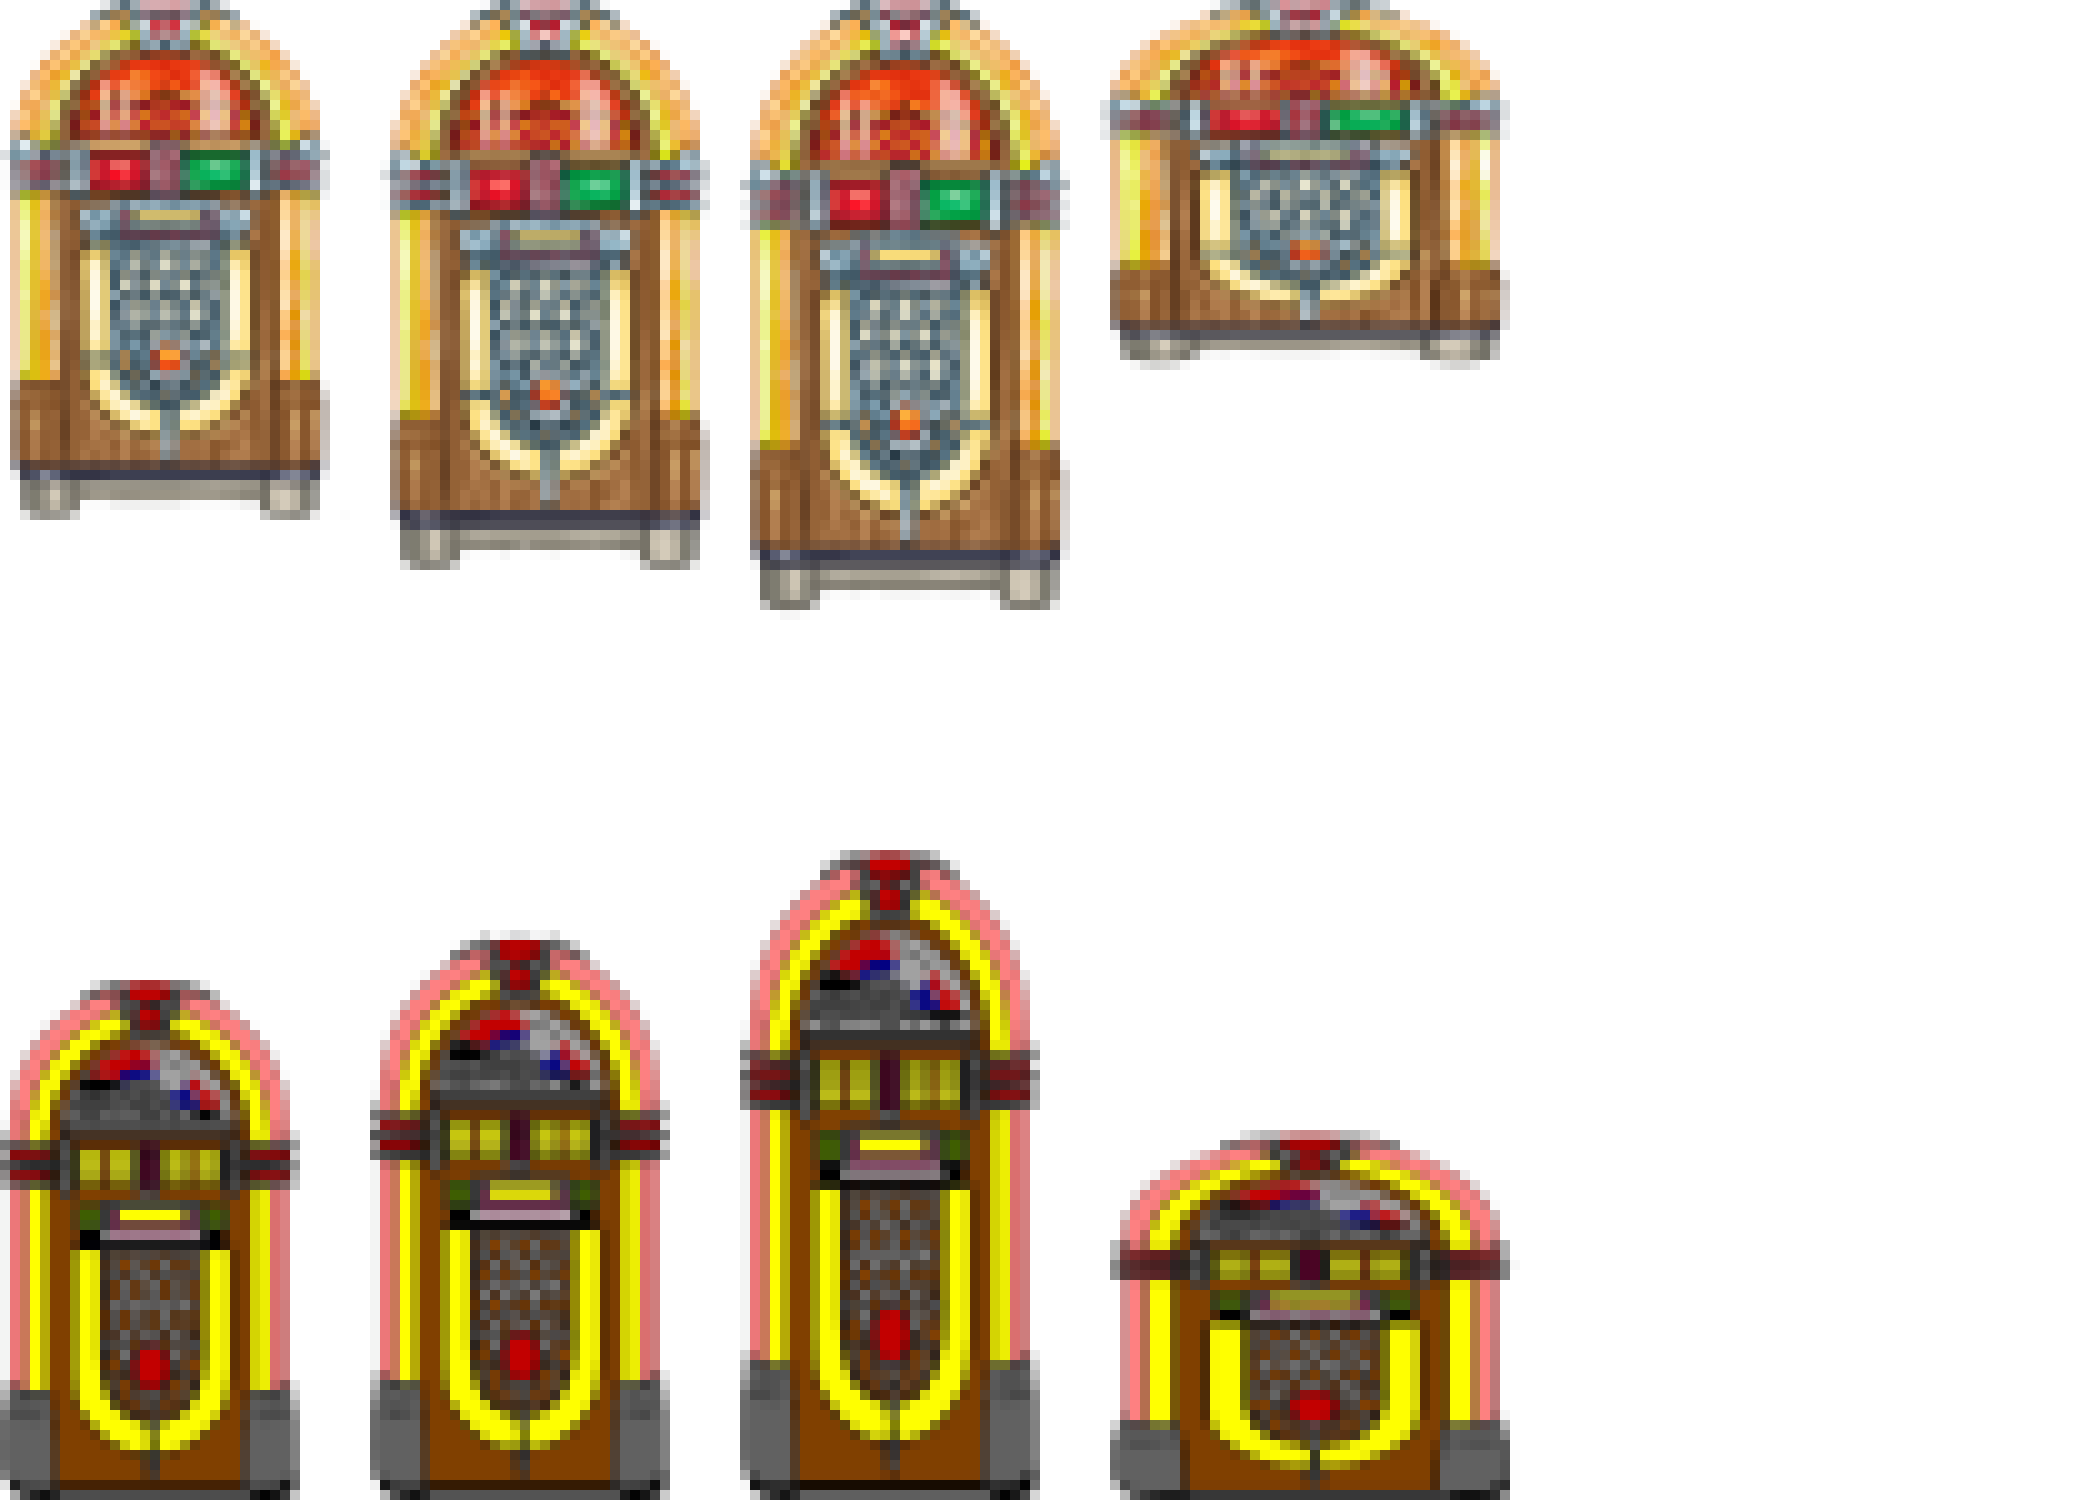
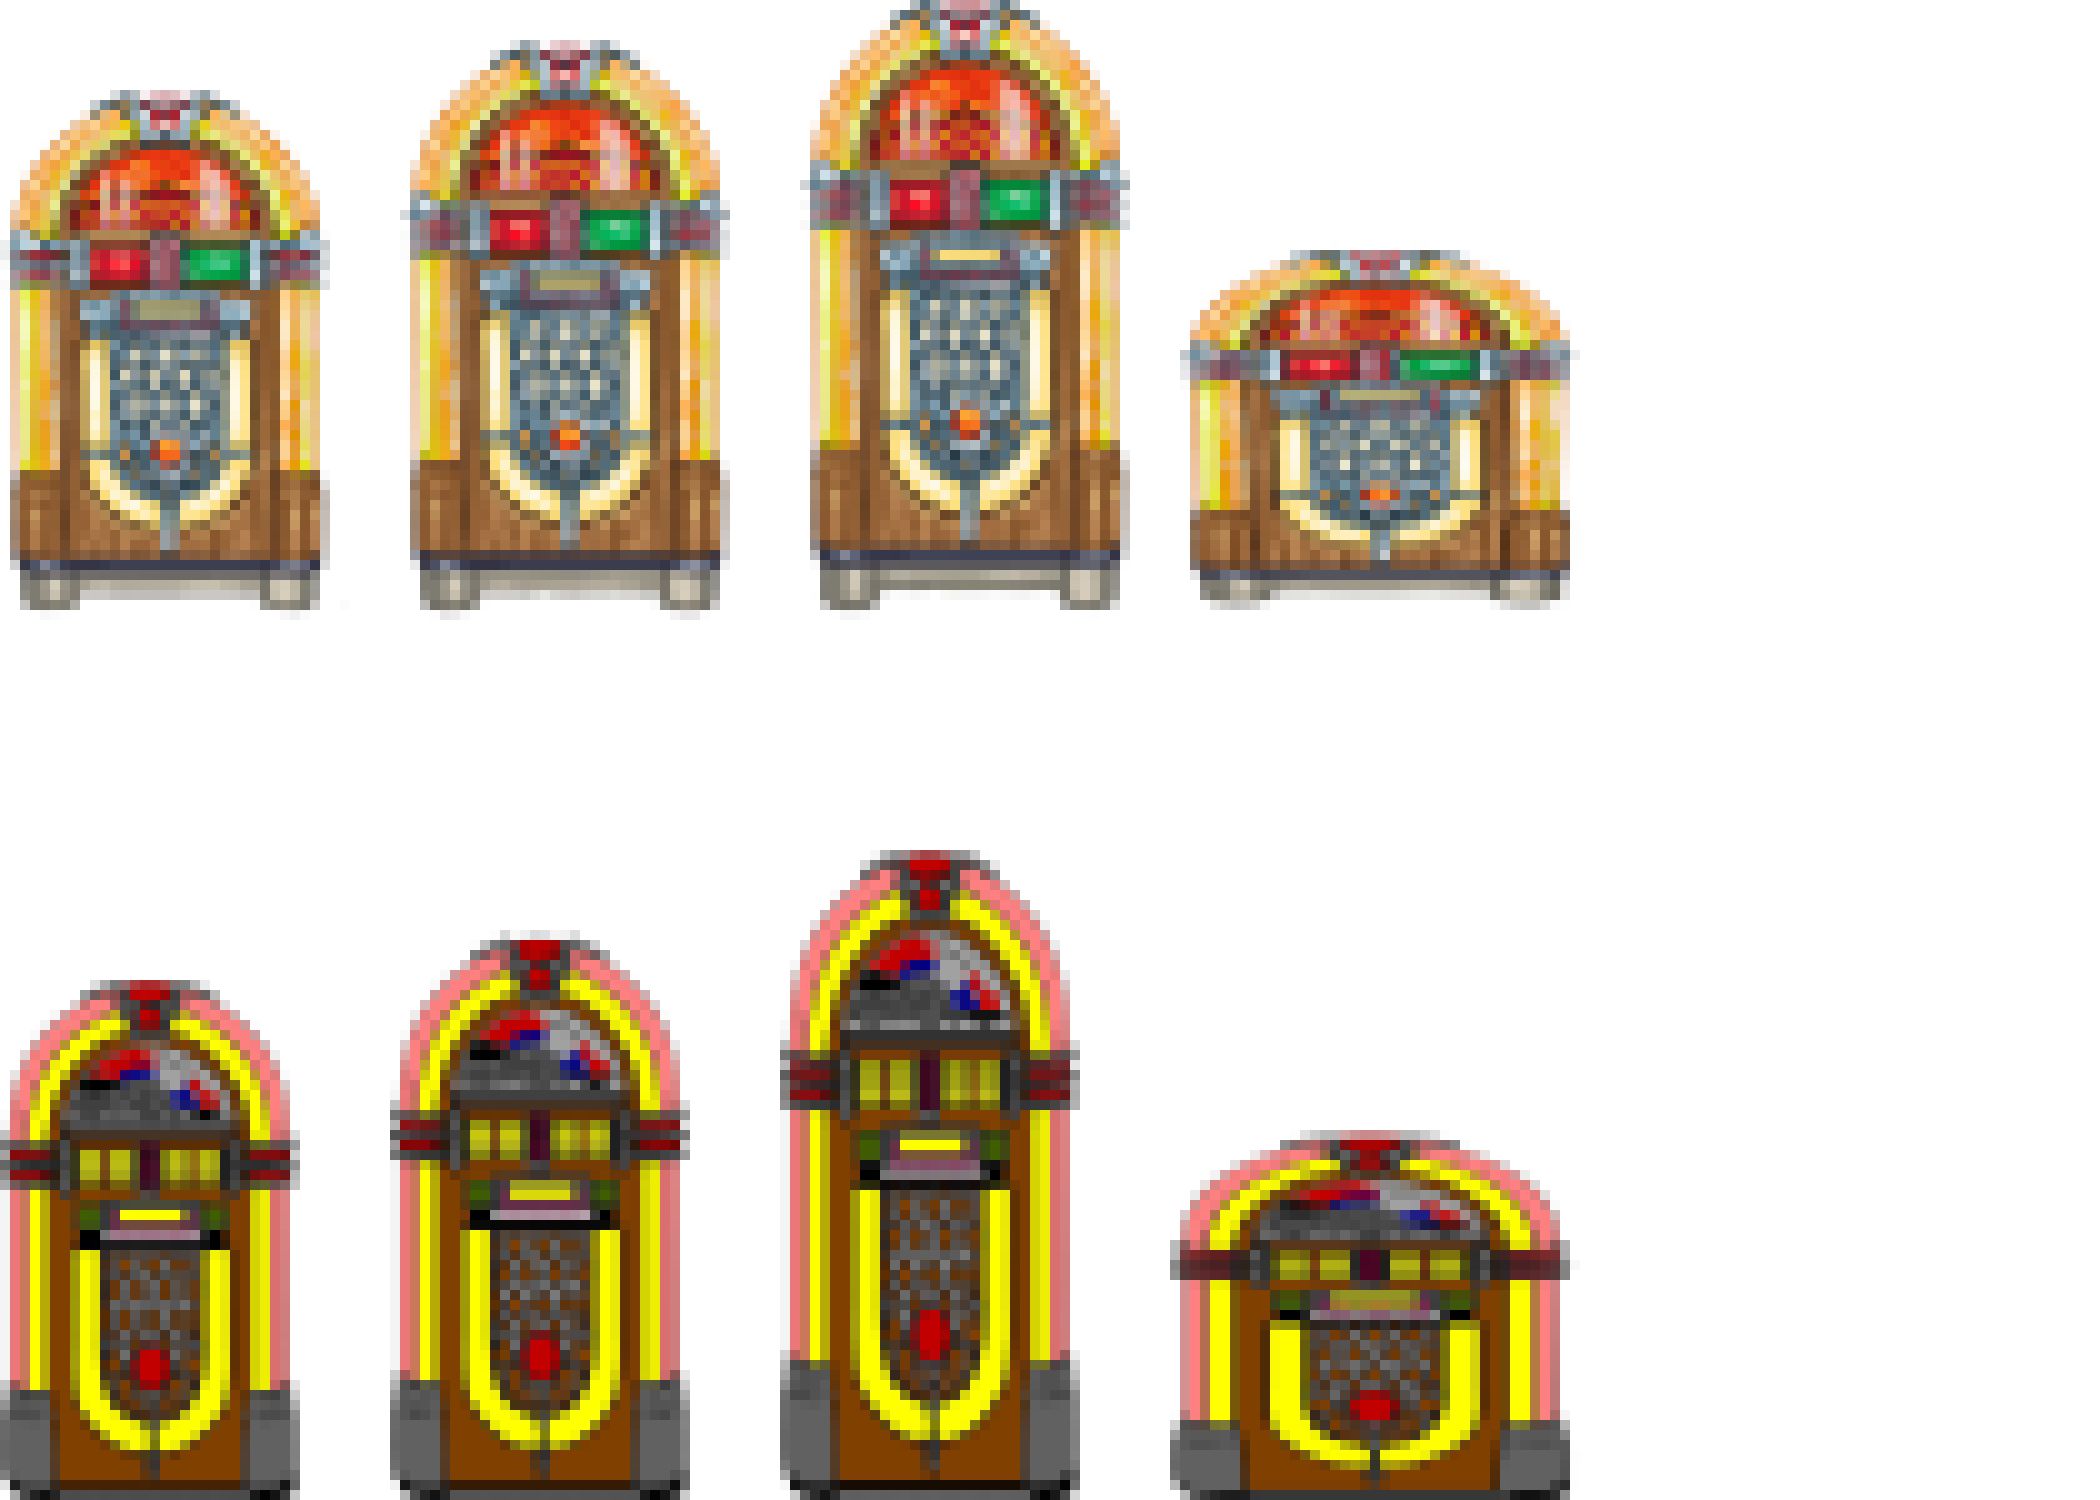
animated jukebox bounce

diff --git a/Puzzle/src/Jukebox.java b/Puzzle/src/Jukebox.java
@@ -5,8 +5,7 @@ import javafx.scene.paint.Color;
 public class Jukebox extends Element {
 	
 	private final static Image JUKEBOX = new Image(PuzzleUtil.FILE_PATH_RES+"jukeboxes.png", false);
-	private int playerWalkCycle = 0, playerDir = 0;
-	//test upload
+	private int jukeboxBounceCycle = 1, jukeboxDir = 0, bounceFrames = 0;
 	
 	public Jukebox() {
 		this(635, 450, PuzzleUtil.JUKEBOX_WIDTH, PuzzleUtil.JUKEBOX_HEIGHT);
@@ -21,10 +20,23 @@ public class Jukebox extends Element {
 		gc.fillRect(x, y, w, h);
 
 		//600 vertical, 400 horizontal
-		int sx = playerWalkCycle*400;
-		int sy = playerDir*600;
+		int sx = jukeboxBounceCycle*400;
+		int sy = jukeboxDir*600;
 		
 		gc.drawImage(JUKEBOX, sx, sy, 350, 600, x, y, w, h);
+	}
+	@Override
+	//every frame, do this
+	public void update(long millis) {
+		advanceBounceCycle(millis);
+	}
+	
+	private void advanceBounceCycle(long millis) {
+		bounceFrames += 1;
+		if (bounceFrames > 20) {
+			bounceFrames = 0;
+			jukeboxBounceCycle = (jukeboxBounceCycle == 3 ? 0 : jukeboxBounceCycle + 1);
+		}
 	}
 }
 

diff --git a/Puzzle/src/Puzzle.java b/Puzzle/src/Puzzle.java
@@ -70,6 +70,8 @@ public class Puzzle extends Application {
 	          case "w":
 	        	  levelElements.add(new Wall(v[0], v[1], v[2], v[3]));
 	        	  break;
+	          case "j":
+	        	  levelElements.add(new Jukebox(v[0], v[1], v[2], v[3]));
 	          }
 	        }
 	        scan.close();
@@ -107,9 +109,6 @@ public class Puzzle extends Application {
 			
 			//render the player
 			zack.draw(gc);
-			
-			//render jukebox
-			jb.draw(gc);
 		}
 	}	 
 	

diff --git a/Puzzle/src/PuzzleUtil.java b/Puzzle/src/PuzzleUtil.java
@@ -11,7 +11,7 @@ class PuzzleUtil{
 	public static final int ZACK_WIDTH = 66;
 	public static final int ZACK_HEIGHT = 100;
 	public static final int JUKEBOX_WIDTH = 70;
-	public static final int JUKEBOX_HEIGHT = 100; //may not be actually a constant since height changes
+	public static final int JUKEBOX_HEIGHT = 100;
 	public static final long NANO_IN_SEC = 1000000000;
 	
 	public enum Dir {DOWN, UP, LEFT, RIGHT;
